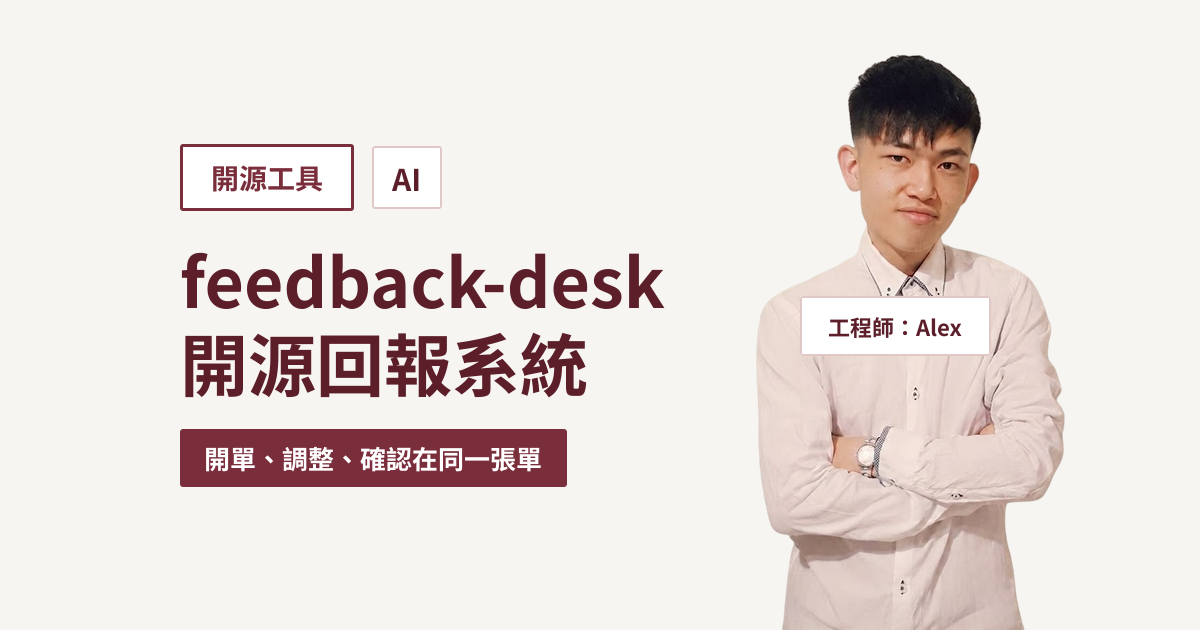
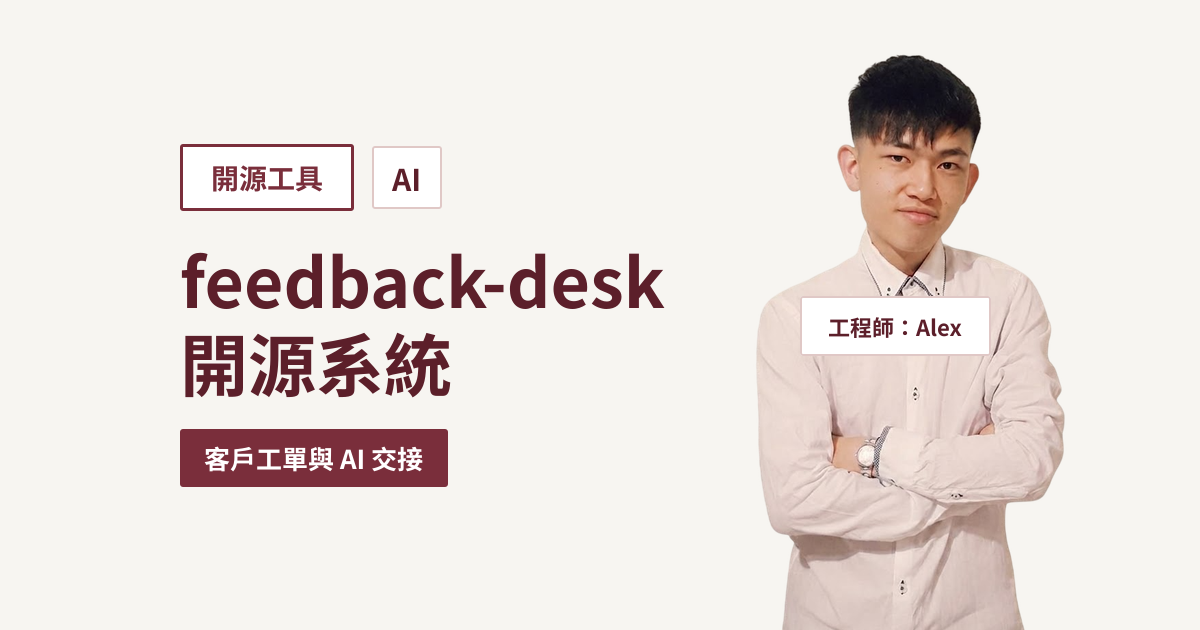
feedback-desk 文章標題改為客戶工單與 AI 交接系統並重做橫幅
保留 feedback-desk 原名，標題與描述改寫成開源的客戶工單與 AI 交接系統：客戶開單，團隊與 AI Agent 處理到結案，多個 AI 可以認領、交接；內文開頭的定位句與標題合併。橫幅照既有生成器重做，主標 feedback-desk／開源系統，副標客戶工單與 AI 交接。

Changed region(s): [[0.2467, 0.5127, 0.4933, 0.6333], [0.1542, 0.6635, 0.4933, 0.7841]]

diff --git a/blog-posts/2026-10-18-feedback-desk/draft-v0.1.md b/blog-posts/2026-10-18-feedback-desk/draft-v0.1.md
@@ -1,6 +1,6 @@
 ---
-title: feedback-desk：開源的客戶溝通與 AI 交接系統
-description: feedback-desk 是開源的客戶溝通與 AI 交接系統：客戶開單、留言，團隊和各自的 AI Agent 在同一張單上讀需求、寫調整說明、接手工作。MIT 授權，Cloudflare 版只用免費方案，不用自己管主機。
+title: feedback-desk：開源的客戶工單與 AI 交接系統
+description: feedback-desk 是開源的客戶工單與 AI 交接系統：客戶開單，團隊與 AI Agent 處理到結案，多個 AI 可以認領、交接。MIT 授權，Cloudflare 版只用免費方案，不用自己管主機。
 slug: feedback-desk
 status: published
 featured: false
@@ -36,7 +36,7 @@ faqs:
     answer: 一次可以加多個問題，送出後每個問題各自成一張單。每題最多 5 張截圖，每張 10 MB 以內，格式可以是 JPG、PNG 或 WebP。附截圖需要瀏覽器開啟 JavaScript。
 ---
 
-feedback-desk 是我開源的系統開發溝通與 AI 交接系統，MIT 授權：[aixwangtw/feedback-desk](https://github.com/aixwangtw/feedback-desk)。它是接案用的客戶工單系統：客戶開單，團隊處理到結案，AI Agent 可以讀單、認領、交接。
+feedback-desk 是我開源的客戶工單與 AI 交接系統，MIT 授權：[aixwangtw/feedback-desk](https://github.com/aixwangtw/feedback-desk)。我接案時用它跟客戶溝通：客戶開單，團隊處理到結案，AI Agent 可以讀單、認領、交接。
 
 我現在同時接 3 個系統開發專案，每個專案都跟一位夥伴一起開發，所以每個專案有客戶、夥伴、我三個人，再加上我和夥伴各自的 AI。訊息分散在各個地方，也沒有統一的 API 讓 AI 讀需求、彼此交接，所以我用 Vibe Coding 自己做了這套。
 
